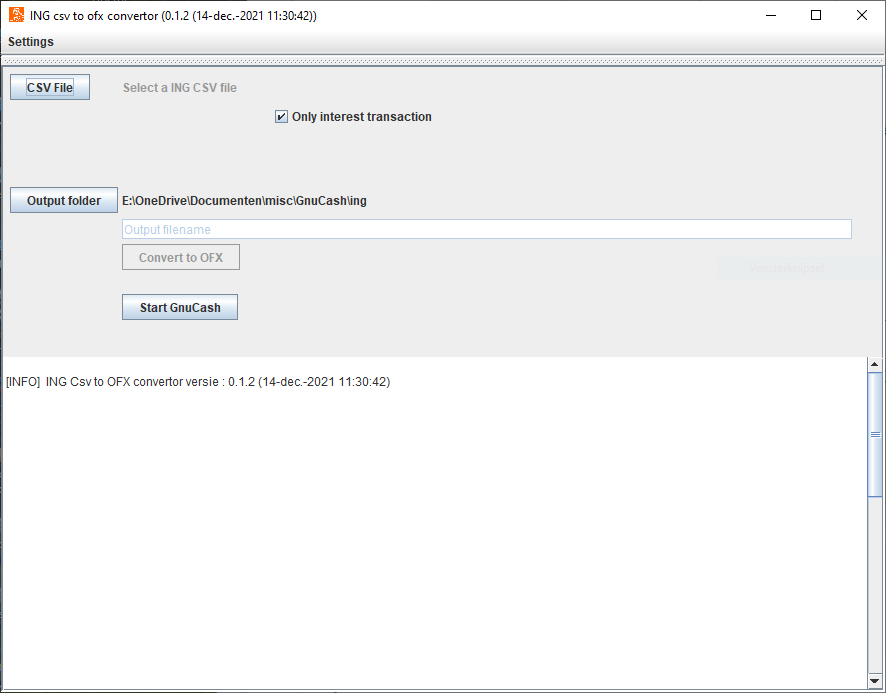
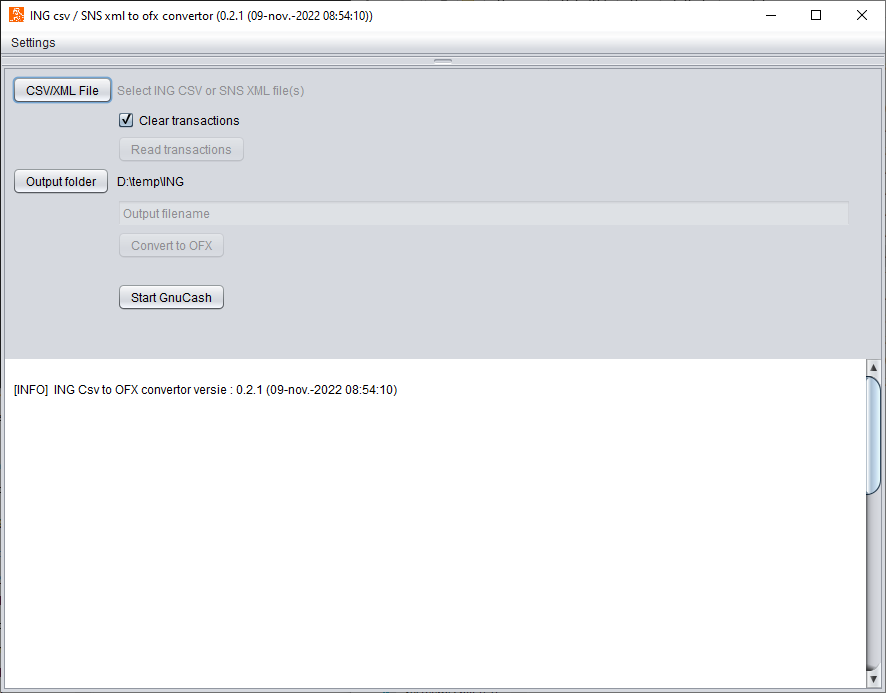
Readme updated, inc. screenshots.

Changed region(s): [[0.0, 0.0303, 1.0, 1.0], [0.0914, 0.0, 0.4266, 0.0303], [0.1219, 0.4242, 0.2743, 0.4545]]

diff --git a/readme.md b/readme.md
@@ -19,13 +19,18 @@ When running the application (Windows excutable or Java jar-file) the following 
 ![Main screen ing2ofx](./ing2ofxMain.PNG)
 
 Button _CSV File(s)_: one or more ING CSV file or SNS XML can be choosen.
-- The application recognize a comma or semicolon separated input file.
+- The application recognizes:
+  - a comma or semicolon separated ING input file.
+  - a SNS XML input file.
 - The content "normal" or saving transactions.
-The checkbox "Only interest transaction" is used only for a CSV file with saving transactions.
-
+<br>
+Checkbox _Clear transactions_: If checked then the buffer of already processed input files is cleared.
+<br>
+Button _Read transactions_: The selected CSV/XML files are processed.
+<br>
 Button _Output folder_: Point to the directory where the generated OFX-file(s) are stored. 
 A proposal for the "Output filename" is made, this can be changed.
-
+<br>
 Button _Convert to OFX_: The conversion to OFX format is started, the progres is shown in the lower panel.
 <br>
 Button _Start GnuCash_: GnuCash is started.
@@ -35,8 +40,9 @@ Button _Start GnuCash_: GnuCash is started.
 ![Settings menu](./ing2ofxSettings.PNG)
 
 In the "settings" menu the following options are available:
-- A ING CSV file may contain transactions for more then one account, all converted OFX transcations can be stored in one OFX file or per account a separate OFX file (default).
-- Where to find _GnuCash_ executable.
-- For debugging a _loglevel_ can be defined, default is level _INFO_.
+- _Accounts in seperate OFX files_: A ING/SNS CSV/XML file may contain transactions for more then one account, all converted OFX transcations can be stored in one OFX file or per account a separate OFX file (default).
+- _Only interest transaction_: is used only for a ING CSV file with saving transactions.
+- _GnuCash executable_: Where to find _GnuCash_ executable.
+- _Loglevel_: For debugging a _loglevel_ can be defined, default is level _INFO_.
 - _Look and Feel_ of the GUI can be adjusted.
 - _Create logfiles_ in the choosen directory a HTML- and a textfile with logging is created.
